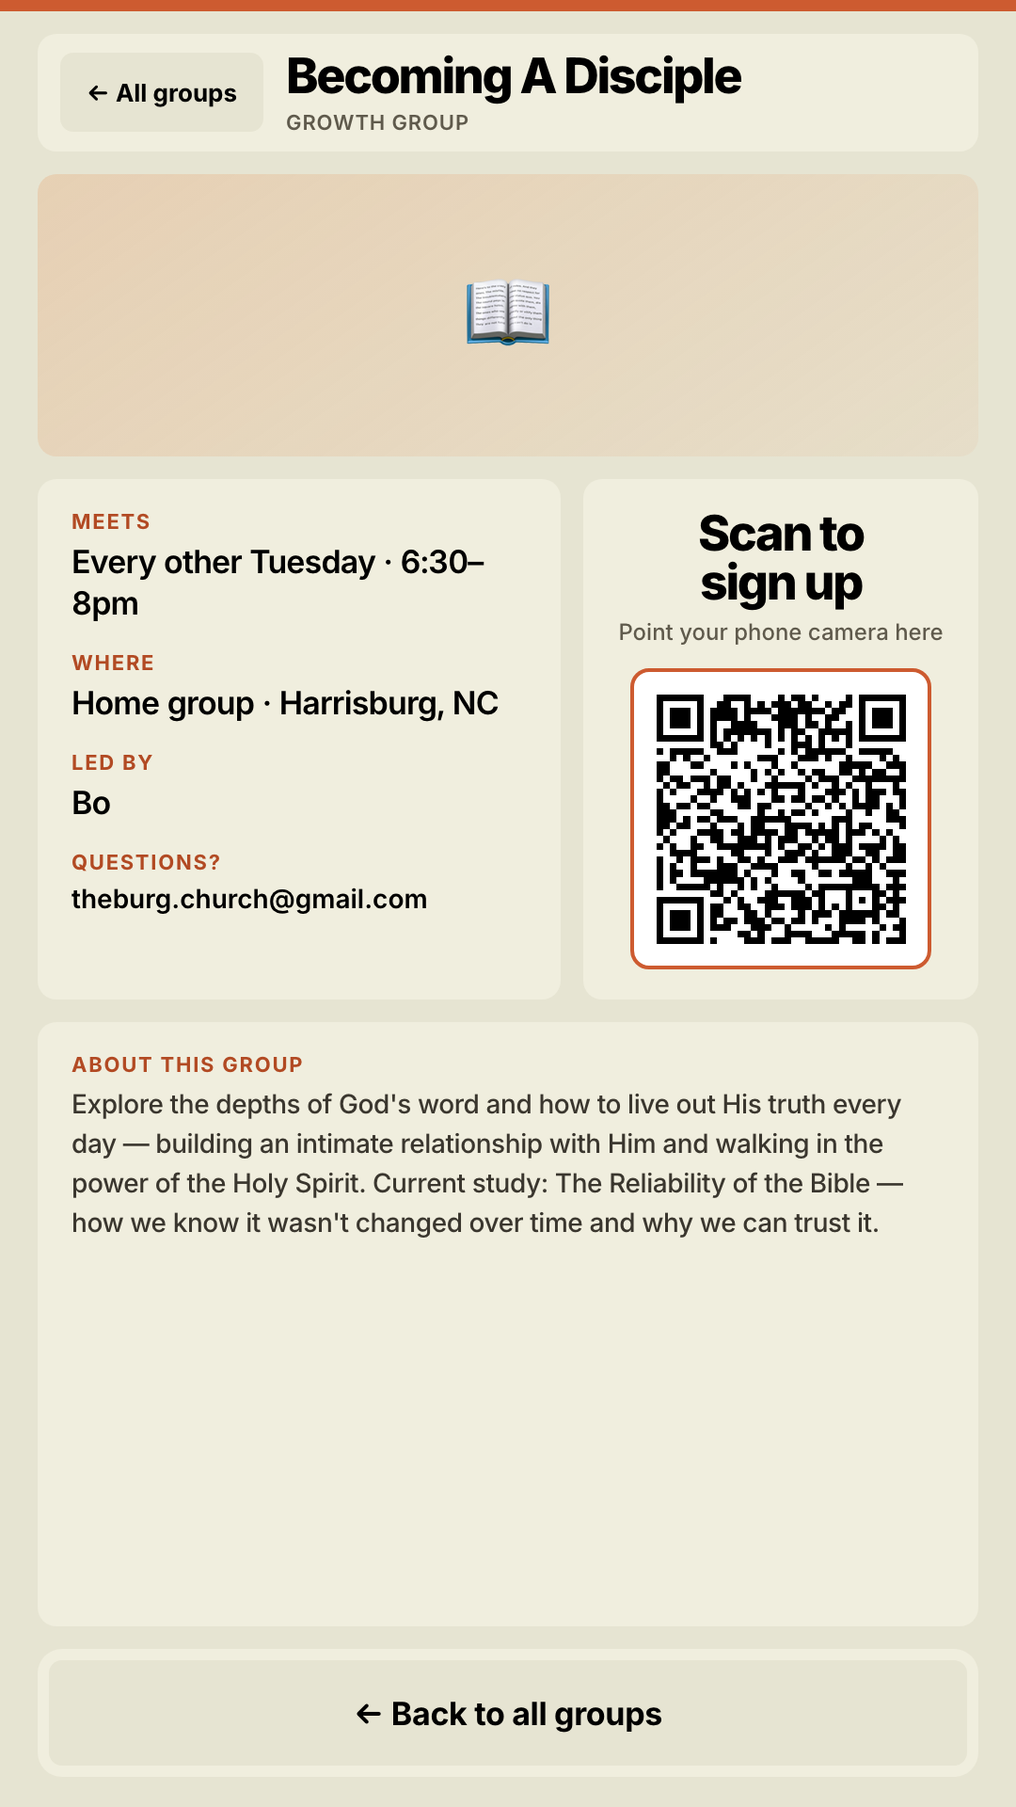
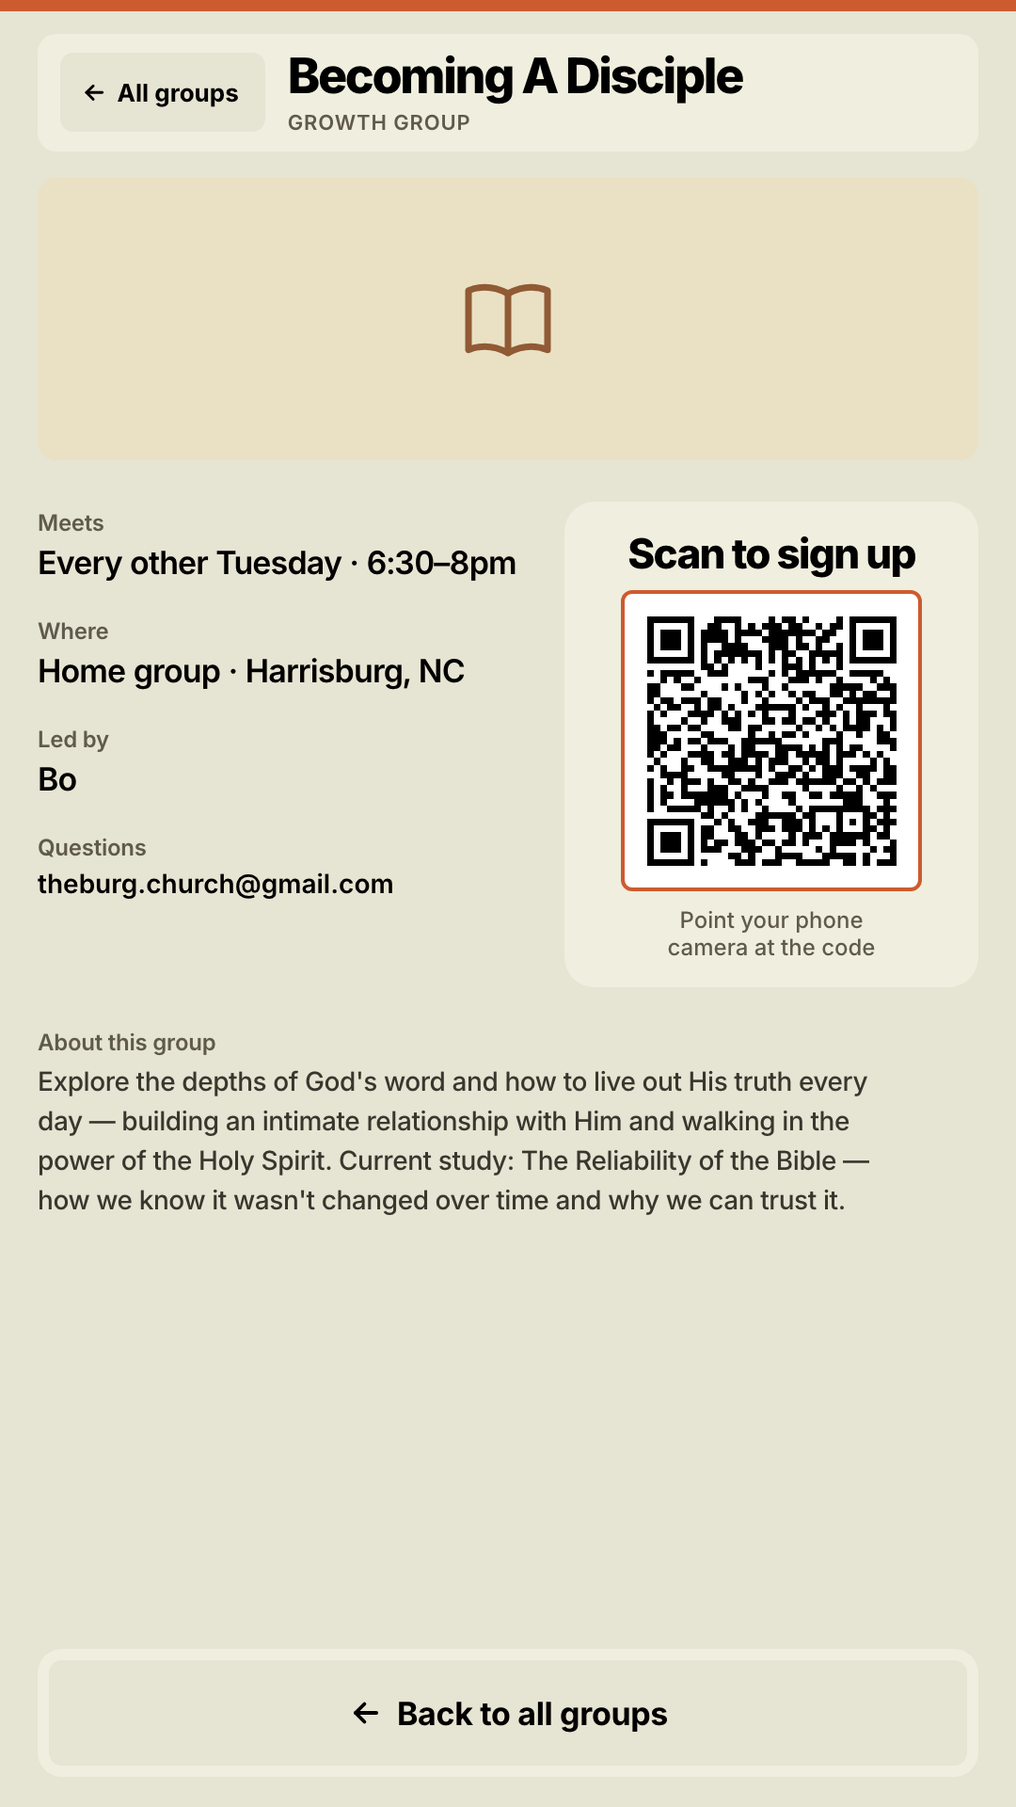
Pass 2: remove vibe-coded visuals
- Emoji tiles replaced by one line-icon per category (book, heart,
  people) on a flat tile tinted with the group's color via color-mix in
  OKLCH. The sheet's emoji column is still read so staff sheets keep
  working; staff guide updated to say it's no longer shown
- Same icon set for tabs, back buttons, and the admin panel; admin
  status uses a colored dot instead of emoji
- Blank Sheet cells now hide their section: no more "Scan for details",
  "hasn't posted a description yet", or "Scan the code for the latest
  schedule" filler
- Cards show location under the schedule (name, who, when, where)
- Specific headlines per tab replace "Find your people." and the
  decorative orange period; balanced wrapping
- Detail screen drops the three boxed panels: facts, about, and photo
  sit on the page with spacing; the QR card is the only raised surface
- Labels are sentence case instead of tiny tracked uppercase
- Tab count pills removed

Headline copy is a draft pending approval.

diff --git a/index.html b/index.html
@@ -82,6 +82,9 @@ body::before {               /* orange strip across the top, like the site */
 }
 button { font-family:inherit; color:inherit; touch-action:manipulation; }
 
+/* Line icons: one set, stroke weight tuned to sit next to bold text. */
+.ico { width:1.1em; height:1.1em; flex-shrink:0; fill:none; stroke:currentColor; stroke-width:2.4; stroke-linecap:round; stroke-linejoin:round; }
+
 /* Hit areas reach past the visible shape so near-misses still count. */
 .hit { position:relative; }
 .hit::after { content:''; position:absolute; inset:-12px; }
@@ -139,12 +142,7 @@ button { font-family:inherit; color:inherit; touch-action:manipulation; }
   display:flex; align-items:center; justify-content:center; gap:14px;
   cursor:pointer;
 }
-.tab .n {
-  font-size:var(--fs-small); font-weight:700; font-variant-numeric:tabular-nums;
-  background:rgba(0,0,0,0.08); border-radius:100px; padding:2px 12px;
-}
 .tab.active { background:var(--orange); color:#fff; }
-.tab.active .n { background:rgba(255,255,255,0.22); }
 .dock .hit::after { inset:-12px -6px; }       /* fill the dock padding + half the gap */
 
 /* ── HOME ── */
@@ -153,14 +151,14 @@ button { font-family:inherit; color:inherit; touch-action:manipulation; }
   padding:40px 40px 0;
   display:flex; flex-direction:column;
 }
-.hero { display:flex; flex-direction:column; gap:16px; margin-bottom:32px; }
+.hero { display:flex; flex-direction:column; gap:14px; margin-bottom:32px; }
 .headline {
-  font-weight:800; font-size:var(--fs-h1); letter-spacing:-0.05em; line-height:0.95;
+  font-weight:800; font-size:76px; letter-spacing:-0.045em; line-height:1;
+  text-wrap:balance; max-width:960px;
 }
-.headline .dash { color:var(--orange); }
 .subline {
   font-weight:500; font-size:var(--fs-body); letter-spacing:-0.02em; line-height:1.35;
-  color:var(--ink-2); max-width:820px;
+  color:var(--ink-2); max-width:820px; text-wrap:balance;
 }
 
 .cards-scroll {
@@ -191,66 +189,74 @@ button { font-family:inherit; color:inherit; touch-action:manipulation; }
   aspect-ratio: 2 / 1; position:relative; overflow:hidden;
   border-radius:var(--radius) var(--radius) 0 0;
   display:flex; align-items:center; justify-content:center;
-  font-size:88px;
+  background:color-mix(in oklch, var(--tint, var(--orange)) 18%, var(--panel));
+  color:color-mix(in oklch, var(--tint, var(--orange)) 70%, black);
 }
+.tile-ico { width:76px; height:76px; stroke-width:1.75; }
 .media img { position:absolute; inset:0; width:100%; height:100%; object-fit:cover; }
 .card-body { padding:24px 28px 28px; display:flex; flex-direction:column; gap:8px; flex:1; }
 .card-name { font-weight:700; font-size:var(--fs-title); letter-spacing:-0.03em; line-height:1.12; }
 .card-sub  { font-size:var(--fs-small); font-weight:500; color:var(--muted); letter-spacing:-0.01em; line-height:1.3; }
+.card-meta { margin-top:auto; padding-top:14px; display:flex; flex-direction:column; gap:4px; }
 .card-time {
-  margin-top:auto; padding-top:12px;
   font-size:26px; font-weight:600; color:var(--orange-d); letter-spacing:-0.01em; line-height:1.3;
   font-variant-numeric:tabular-nums;
 }
+.card-loc { font-size:var(--fs-small); font-weight:500; color:var(--ink-2); line-height:1.3; }
 
 /* ── DETAIL ── */
 .back-btn {
   font-size:26px; font-weight:700;
   background:var(--page); color:var(--ink);
   border:none; border-radius:var(--btn-r);
-  height:var(--target-s); padding:0 28px; cursor:pointer; flex-shrink:0;
+  height:var(--target-s); padding:0 28px 0 22px; cursor:pointer; flex-shrink:0;
+  display:flex; align-items:center; gap:10px;
 }
 .d-title { min-width:0; }
-.d-name { font-weight:800; font-size:var(--fs-h2); letter-spacing:-0.045em; line-height:1.05; }
+.d-name { font-weight:800; font-size:var(--fs-h2); letter-spacing:-0.045em; line-height:1.05; text-wrap:balance; }
+.d-sub[hidden] { display:none; }
 .d-sub  { font-size:var(--fs-label); font-weight:600; letter-spacing:0.04em; text-transform:uppercase; color:var(--muted); margin-top:8px; }
 
 .detail-body {
-  flex:1; min-height:0;
-  display:grid; gap:24px; padding:24px 40px 24px;
-  grid-template-columns: 1fr 420px;
-  grid-template-rows: 300px auto minmax(0,1fr);
+  flex:1; min-height:0; overflow-y:auto; overflow-x:hidden;
+  touch-action:pan-y; overscroll-behavior:contain; scrollbar-width:none;
+  display:grid; gap:44px 48px; padding:28px 40px 40px; align-content:start;
+  grid-template-columns: minmax(0,1fr) 440px;
+  grid-template-rows: 300px auto auto;
   grid-template-areas: "photo photo" "facts qr" "about about";
 }
+.detail-body::-webkit-scrollbar { display:none; }
 .d-photo {
   grid-area:photo; position:relative; overflow:hidden;
   border-radius:var(--radius);
-  display:flex; align-items:center; justify-content:center; font-size:110px;
+  display:flex; align-items:center; justify-content:center;
+  background:color-mix(in oklch, var(--tint, var(--orange)) 18%, var(--panel));
+  color:color-mix(in oklch, var(--tint, var(--orange)) 70%, black);
 }
+.d-photo .tile-ico { width:112px; height:112px; stroke-width:1.5; }
 .d-photo img { position:absolute; inset:0; width:100%; height:100%; object-fit:cover; }
-.col {
-  background:var(--panel); border-radius:var(--radius);
-  min-height:0; overflow-y:auto; scrollbar-width:none;
-  touch-action:pan-y; overscroll-behavior:contain;
-  display:flex; flex-direction:column;
-}
-.col::-webkit-scrollbar { display:none; }
-.col-facts { grid-area:facts; }
-.col-about { grid-area:about; }
-.col-pad { padding:32px 36px; display:flex; flex-direction:column; gap:28px; }
+.d-facts { grid-area:facts; display:flex; flex-direction:column; gap:36px; padding-top:8px; }
+.d-about { grid-area:about; max-width:900px; }
 .blk[hidden] { display:none; }
 .label {
-  font-size:var(--fs-label); font-weight:700; letter-spacing:0.08em; text-transform:uppercase;
-  color:var(--orange-d); margin-bottom:8px;
+  font-size:var(--fs-small); font-weight:600; letter-spacing:-0.01em;
+  color:var(--muted); margin-bottom:6px;
 }
 .about { font-size:var(--fs-body); font-weight:500; line-height:1.5; letter-spacing:-0.015em; color:var(--ink-2); white-space:pre-line; }
-.value { font-size:var(--fs-value); font-weight:600; line-height:1.3; letter-spacing:-0.025em; font-variant-numeric:tabular-nums; }
+.value { font-size:var(--fs-value); font-weight:600; line-height:1.3; letter-spacing:-0.025em; font-variant-numeric:tabular-nums; text-wrap:balance; }
 .contact { font-size:var(--fs-body); font-weight:600; line-height:1.35; overflow-wrap:anywhere; }
-.qr-col { grid-area:qr; align-items:center; justify-content:center; gap:24px; padding:32px; text-align:center; }
-.qr-head { font-weight:800; font-size:var(--fs-h2); letter-spacing:-0.045em; line-height:1; }
-.qr-sub  { font-size:var(--fs-small); font-weight:500; color:var(--muted); margin-top:12px; }
-.qr-frame { background:#fff; padding:16px; border-radius:var(--radius); border:4px solid var(--orange); }
+/* The QR code is the one focal element: the only raised surface on the screen. */
+.qr-card {
+  grid-area:qr; align-self:start;
+  background:var(--panel); border-radius:32px; padding:32px 24px 28px;
+  display:flex; flex-direction:column; align-items:center; gap:20px; text-align:center;
+}
+.qr-head { font-weight:800; font-size:44px; letter-spacing:-0.04em; line-height:1.05; text-wrap:balance; }
+.qr-sub  { font-size:var(--fs-small); font-weight:500; color:var(--muted); text-wrap:balance; }
+.qr-frame { background:#fff; padding:16px; border-radius:8px; outline:4px solid var(--orange); outline-offset:0; }
 .qr-frame canvas { display:block; }
 .dock-back { font-size:34px; }
+.tab .ico, .dock-back .ico { width:38px; height:38px; }
 
 /* ── ADMIN ── */
 .admin-overlay {
@@ -279,13 +285,15 @@ button { font-family:inherit; color:inherit; touch-action:manipulation; }
   padding:16px 12px; cursor:pointer; text-align:center;
 }
 .abtn.sel { border-color:var(--orange); background:#fff; color:var(--orange-d); }
-.abtn .aico { font-size:30px; display:block; margin-bottom:6px; }
+.abtn .aico { width:34px; height:34px; display:block; margin:0 auto 6px; stroke-width:2.2; }
 .data-status {
   font-size:var(--fs-small); line-height:1.45; font-weight:500;
   background:var(--panel-2); border-radius:var(--btn-r);
   padding:16px 20px; margin-bottom:12px;
 }
 .data-status .warn { color:var(--orange-d); }
+.data-status::before { content:''; display:inline-block; width:14px; height:14px; border-radius:50%; margin-right:10px; vertical-align:1px; background:var(--orange); }
+.data-status.ok::before { background:#3E7D4F; }
 .aclose {
   width:100%; height:var(--target-s);
   font-size:var(--fs-small); font-weight:700;
@@ -312,17 +320,16 @@ button { font-family:inherit; color:inherit; touch-action:manipulation; }
 
 /* ── LANDSCAPE (secondary) ── */
 @media (orientation: landscape) {
-  .hero { flex-direction:row; align-items:flex-end; justify-content:space-between; gap:40px; margin-bottom:24px; }
-  .headline { font-size:72px; }
-  .headline br { display:none; }
-  .subline { text-align:right; max-width:620px; }
+  .hero { flex-direction:row; align-items:flex-end; justify-content:space-between; gap:48px; margin-bottom:24px; }
+  .headline { font-size:64px; max-width:1100px; }
+  .subline { text-align:right; max-width:600px; }
   .home-body { padding-top:28px; }
   .cards-grid { grid-template-columns:repeat(4,1fr); }
   .media { aspect-ratio: 16 / 7; }
   .dock { width:min(1100px, calc(100% - 80px)); margin:0 auto 24px; }
   .detail-body {
-    grid-template-columns: 1.15fr 1fr 420px;
-    grid-template-rows: 300px minmax(0,1fr);
+    grid-template-columns: minmax(0,1.1fr) minmax(0,1fr) 440px;
+    grid-template-rows: 300px auto;
     grid-template-areas: "photo facts qr" "about facts qr";
   }
   .admin-overlay { align-items:center; padding-bottom:0; }
@@ -352,7 +359,7 @@ button { font-family:inherit; color:inherit; touch-action:manipulation; }
 <!-- ══ DETAIL ════════════════════════════════════════════════════ -->
 <div id="detail-screen" class="screen">
   <div class="bar detail-bar">
-    <button class="back-btn hit press" id="back-btn">← All groups</button>
+    <button class="back-btn hit press" id="back-btn"><svg class="ico" viewBox="0 0 24 24" aria-hidden="true"><path d="M19 12H5"/><path d="M11 6l-6 6 6 6"/></svg>All groups</button>
     <div class="d-title">
       <div class="d-name" id="d-name"></div>
       <div class="d-sub"  id="d-sub"></div>
@@ -360,25 +367,21 @@ button { font-family:inherit; color:inherit; touch-action:manipulation; }
   </div>
   <div class="detail-body">
     <div class="d-photo" id="d-photo"></div>
-    <div class="col col-facts"><div class="col-pad">
+    <div class="d-facts">
       <div class="blk" id="blk-time"><div class="label">Meets</div><div class="value" id="d-time"></div></div>
       <div class="blk" id="blk-loc"><div class="label">Where</div><div class="value" id="d-loc"></div></div>
       <div class="blk" id="blk-leader"><div class="label">Led by</div><div class="value" id="d-leader"></div></div>
-      <div class="blk" id="blk-contact"><div class="label">Questions?</div><div class="contact" id="d-contact"></div></div>
-    </div></div>
-    <div class="col qr-col">
-      <div>
-        <div class="qr-head">Scan to<br>sign up</div>
-        <div class="qr-sub">Point your phone camera here</div>
-      </div>
-      <div class="qr-frame"><canvas id="qr-canvas"></canvas></div>
+      <div class="blk" id="blk-contact"><div class="label">Questions</div><div class="contact" id="d-contact"></div></div>
     </div>
-    <div class="col col-about"><div class="col-pad">
-      <div class="blk" id="blk-about"><div class="label">About this group</div><div class="about" id="d-about"></div></div>
-    </div></div>
+    <div class="qr-card">
+      <div class="qr-head">Scan to sign&nbsp;up</div>
+      <div class="qr-frame"><canvas id="qr-canvas"></canvas></div>
+      <div class="qr-sub">Point your phone camera at the code</div>
+    </div>
+    <div class="blk d-about" id="blk-about"><div class="label">About this group</div><div class="about" id="d-about"></div></div>
   </div>
   <nav class="dock">
-    <button class="dock-back hit press" id="dock-back-btn">← Back to all groups</button>
+    <button class="dock-back hit press" id="dock-back-btn"><svg class="ico" viewBox="0 0 24 24" aria-hidden="true"><path d="M19 12H5"/><path d="M11 6l-6 6 6 6"/></svg>Back to all groups</button>
   </nav>
 </div>
 
@@ -390,7 +393,7 @@ button { font-family:inherit; color:inherit; touch-action:manipulation; }
     <div class="asec">
       <div class="label">Group data</div>
       <div class="data-status" id="data-status"></div>
-      <div class="arow"><button class="abtn press" onclick="loadData(true)"><span class="aico">🔄</span>Reload data now</button></div>
+      <div class="arow"><button class="abtn press" onclick="loadData(true)"><svg class="ico aico" viewBox="0 0 24 24" aria-hidden="true"><path d="M20 11a8 8 0 1 0-2.3 5.7"/><path d="M20 4v7h-7"/></svg>Reload data now</button></div>
     </div>
     <div class="asec">
       <div class="label">Starting tab</div>
@@ -437,10 +440,20 @@ const CONFIG = {
 /* Tabs, in display order. A category in the sheet that isn't listed
    here still shows up — it just gets its own tab at the end. */
 const CATEGORIES = {
-  study:   { label:'Study',   icon:'📖', headline:'Find your <br>people<span class="dash">.</span>',      sub:'Dig into the Word with others. Tap a group to learn more and sign up.' },
-  support: { label:'Support', icon:'🤝', headline:'You’re not <br>alone<span class="dash">.</span>',       sub:'Care, outreach, and walking through life together.' },
-  social:  { label:'Social',  icon:'🎉', headline:'Life is better <br>together<span class="dash">.</span>', sub:'Hikes, dinners, hobbies, and friendships that last.' },
+  study:   { label:'Study',   icon:'book',   headline:'Study the Bible with a small group', sub:'Groups meet in homes and at the church, weekly or monthly. Tap one to see when and where.' },
+  support: { label:'Support', icon:'heart',  headline:'Care for people alongside a team',   sub:'Outreach, special needs, congregational care, and marriage ministry.' },
+  social:  { label:'Social',  icon:'people', headline:'Make friends doing what you enjoy',   sub:'Hiking, golf, pickleball, dinners, sewing, cars, and more.' },
 };
+/* One line-icon set (24×24 grid, round caps). Stroke weight is set in CSS to
+   match the bold text next to it. */
+const ICONS = {
+  book:   '<path d="M3 5.5c2.5-1 5.5-1.2 9 .7 3.5-1.9 6.5-1.7 9-.7V19c-2.5-1-5.5-1.2-9 .7-3.5-1.9-6.5-1.7-9-.7z"/><path d="M12 6.2v13.5"/>',
+  heart:  '<path d="M12 20s-7.5-4.6-7.5-10.2A4.3 4.3 0 0 1 12 7a4.3 4.3 0 0 1 7.5 2.8C19.5 15.4 12 20 12 20z"/>',
+  people: '<circle cx="9" cy="8" r="3.2"/><path d="M3 19.5c.6-3.4 3-5.3 6-5.3s5.4 1.9 6 5.3"/><circle cx="16.8" cy="8.8" r="2.6"/><path d="M16 14.3c2.7-.2 4.6 1.4 5 4.6"/>',
+  back:   '<path d="M19 12H5"/><path d="M11 6l-6 6 6 6"/>',
+  reload: '<path d="M20 11a8 8 0 1 0-2.3 5.7"/><path d="M20 4v7h-7"/>',
+};
+const icon = (name, cls='') => `<svg class="ico ${cls}" viewBox="0 0 24 24" aria-hidden="true">${ICONS[name] || ICONS.people}</svg>`;
 const FALLBACK_COLORS = ['#CD5B30','#5B7FA6','#4A7558','#A67BAB','#C9A96E','#6EB8C9','#E8945A','#7A6EB5'];
 
 /* ══════════════════════════════════════════════════════════════
@@ -630,19 +643,19 @@ function catList() {
   return [...Object.keys(CATEGORIES).filter(c => inData.includes(c)), ...inData.filter(c => !CATEGORIES[c])];
 }
 function catMeta(c) {
-  return CATEGORIES[c] || { label:c, icon:'⭐', headline:'Find your <br>people<span class="dash">.</span>', sub:'Tap a group to learn more and sign up.' };
+  return CATEGORIES[c] || { label:c.charAt(0).toUpperCase() + c.slice(1), icon:'people', headline:'Find a group to join', sub:'Tap a group to see when and where it meets.' };
 }
 
 /* ── Tabs ── */
 function buildTabs() {
   $('tabs').innerHTML = catList().map(c => {
-    const m = catMeta(c), n = groups.filter(g => g.category === c).length;
-    return `<button class="tab hit press${c===mode?' active':''}" data-mode="${esc(c)}">${esc(m.label)} <span class="n">${n}</span></button>`;
+    const m = catMeta(c);
+    return `<button class="tab hit press${c===mode?' active':''}" data-mode="${esc(c)}">${icon(m.icon)}${esc(m.label)}</button>`;
   }).join('');
   $('tabs').querySelectorAll('.tab').forEach(b => b.onclick = () => switchMode(b.dataset.mode));
   $('admin-modes').innerHTML = catList().map(c => {
     const m = catMeta(c);
-    return `<button class="abtn press" data-am="${esc(c)}"><span class="aico">${m.icon}</span>${esc(m.label)}</button>`;
+    return `<button class="abtn press" data-am="${esc(c)}">${icon(m.icon,'aico')}${esc(m.label)}</button>`;
   }).join('');
   $('admin-modes').querySelectorAll('.abtn').forEach(b => b.onclick = () => {
     prefs.startTab = b.dataset.am; store.set(PREFS_KEY, prefs); switchMode(b.dataset.am); syncAdmin();
@@ -653,7 +666,7 @@ function switchMode(m, quiet) {
   if (!quiet) resetIdle();
   mode = m;
   const meta = catMeta(m);
-  $('headline').innerHTML = meta.headline;
+  $('headline').textContent = meta.headline;
   $('subline').textContent = meta.sub;
   document.querySelectorAll('.tab').forEach(t => t.classList.toggle('active', t.dataset.mode === m));
   renderCards();
@@ -665,11 +678,15 @@ function colorFor(g, i) {
 }
 /* Photo if we have one; otherwise a tinted tile with the group's icon.
    If a photo link breaks, it quietly falls back to the tile. */
-function mediaHTML(g, color, emojiSize) {
-  const tile = `background:linear-gradient(145deg, ${color}40 0%, ${color}14 100%)`;
+/* Photo if we have one; otherwise a flat tile tinted with the group's color and
+   its category's line icon. The sheet's "emoji" column is still read so staff
+   sheets don't break, but emoji are no longer drawn (they read as clip-art).
+   If a photo link breaks, it quietly falls back to the tile. */
+function mediaHTML(g, color) {
+  const tile = `--tint:${color}`;
   const src = photoFor(g);
   const img = src ? `<img src="${esc(src)}" alt="" onerror="this.remove()">` : '';
-  return { style: tile, html: `<span${emojiSize?` style="font-size:${emojiSize}"`:''}>${esc(g.emoji || '⭐')}</span>${img}` };
+  return { style: tile, html: icon(catMeta(g.category).icon, 'tile-ico') + img };
 }
 
 function renderCards() {
@@ -687,7 +704,10 @@ function renderCards() {
       <div class="card-body">
         <div class="card-name">${esc(g.name)}</div>
         ${g.subtitle ? `<div class="card-sub">${esc(g.subtitle)}</div>` : ''}
-        <div class="card-time">${esc(g.schedule || 'Scan for details')}</div>
+        ${g.schedule || g.location ? `<div class="card-meta">
+          ${g.schedule ? `<div class="card-time">${esc(g.schedule)}</div>` : ''}
+          ${g.location ? `<div class="card-loc">${esc(g.location)}</div>` : ''}
+        </div>` : ''}
       </div>`;
     c.addEventListener('click', () => openDetail(g, color));
     grid.appendChild(c);
@@ -699,12 +719,13 @@ function setBlock(id, blk, text) { $(id).textContent = text || ''; $(blk).hidden
 function openDetail(g, color) {
   resetIdle();
   $('d-name').textContent = g.name;
-  $('d-sub').textContent  = g.subtitle || catMeta(g.category).label + ' group';
-  const m = mediaHTML(g, color, '6rem');
+  $('d-sub').textContent  = g.subtitle;
+  $('d-sub').hidden = !g.subtitle;
+  const m = mediaHTML(g, color);
   $('d-photo').setAttribute('style', m.style);
   $('d-photo').innerHTML = m.html;
-  setBlock('d-about',   'blk-about',   g.about || 'This group hasn’t posted a description yet. Scan the code to see the latest details and request to join.');
-  setBlock('d-time',    'blk-time',    g.schedule || 'Scan the code for the latest schedule');
+  setBlock('d-about',   'blk-about',   g.about);
+  setBlock('d-time',    'blk-time',    g.schedule);
   setBlock('d-loc',     'blk-loc',     g.location);
   setBlock('d-leader',  'blk-leader',  g.leaders);
   setBlock('d-contact', 'blk-contact', g.contact || CONFIG.DEFAULT_CONTACT);
@@ -774,10 +795,11 @@ function syncAdmin() {
   document.querySelectorAll('.abtn[data-idle]').forEach(b => b.classList.toggle('sel', +b.dataset.idle === prefs.idle));
   const when = loadedAt ? loadedAt.toLocaleString([], { month:'short', day:'numeric', hour:'numeric', minute:'2-digit' }) : '';
   const src = {
-    sheet:  `✅ Live from Google Sheet · updated ${when}`,
-    cache:  `⚠ Showing saved copy from ${when}`,
-    backup: `⚠ Showing built-in backup list`,
+    sheet:  `Live from Google Sheet · updated ${when}`,
+    cache:  `Showing saved copy from ${when}`,
+    backup: `Showing built-in backup list`,
   }[source];
+  $('data-status').className = 'data-status ' + (source === 'sheet' ? 'ok' : 'stale');
   $('data-status').innerHTML = `${esc(src)} · ${groups.length} groups` +
     (pending ? `<br>New data downloaded. It shows after the next auto-reset, or tap Reload.` : '') +
     (lastError && source !== 'sheet' ? `<br><span class="warn">${esc(lastError)}</span>` : '');

diff --git a/docs/staff-guide.md b/docs/staff-guide.md
@@ -32,7 +32,7 @@ Type `no` in the `show` column. Clear it to bring the group back.
 | `contact` | Email for questions | `mike@theburg.church` |
 | `signup_url` | Church Center sign-up link (becomes the QR code) | |
 | `photo` | A photo link, or `none` for no photo. Leave blank to use the built-in photo. | |
-| `emoji` | Icon shown when there's no photo | `📖` |
+| `emoji` | No longer shown. Groups without a photo now get their category's icon. Safe to leave filled in or blank. | |
 | `color` | Accent color as a hex code. Leave blank for automatic. | `#CD5B30` |
 | `show` | `no` hides the group | |
 
